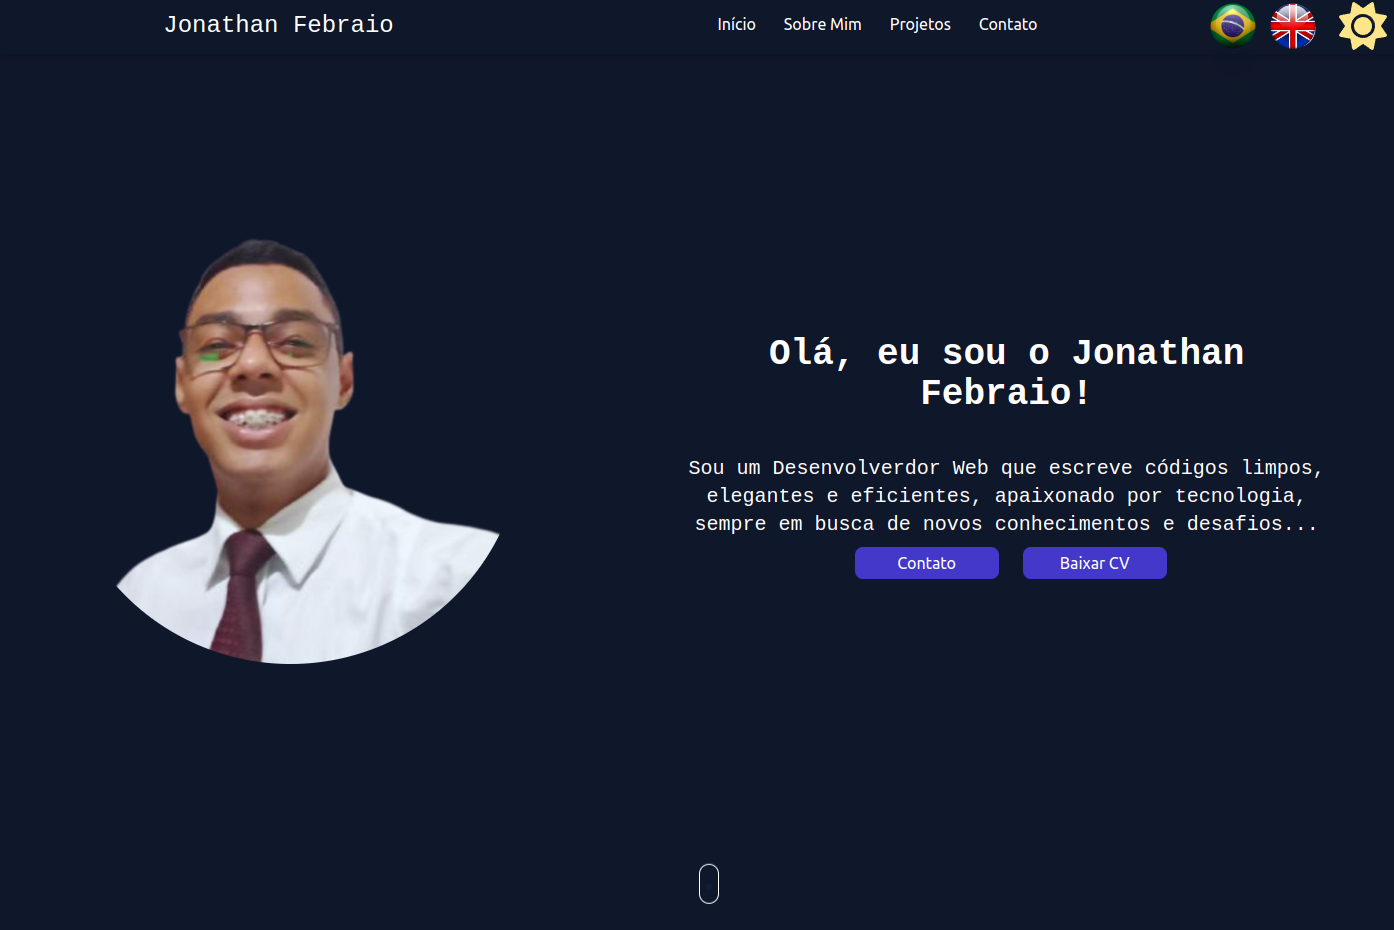
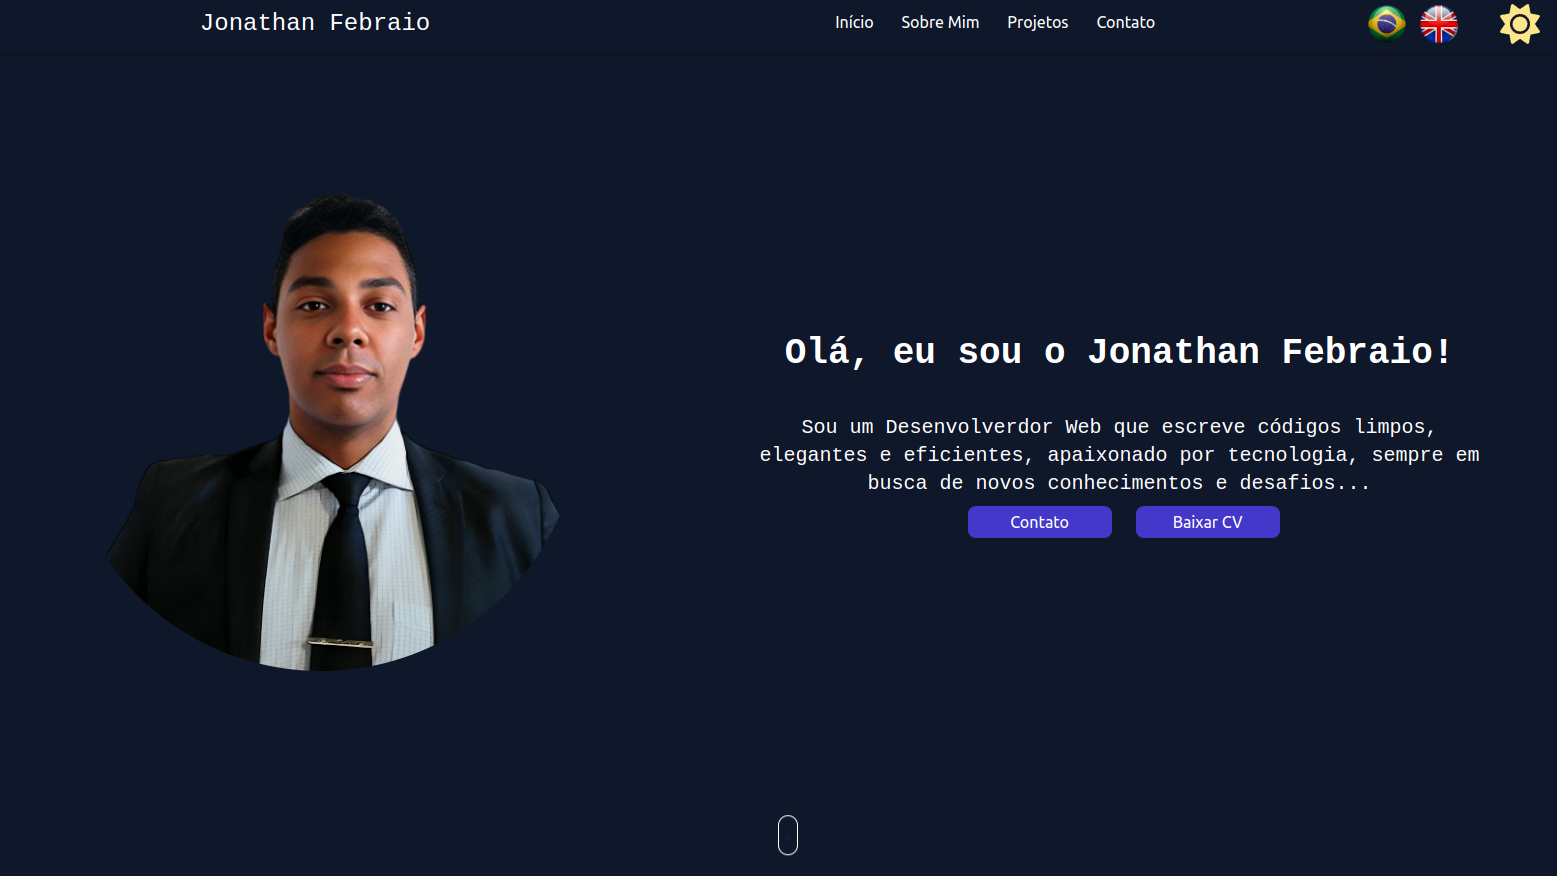
feat: adiciona nova foto a pagina inicial, finaliza pagina de detalhes dos projetos

diff --git a/src/pages/ProjectDetails.tsx b/src/pages/ProjectDetails.tsx
@@ -72,7 +72,7 @@ function ProjectDetails() {
               <button
                 type="button"
                 className="w-48 text-xl text-white mt-4 p-1 rounded-lg
-                 bg-indigo-700"
+                 bg-indigo-700 hover:scale-110 transition-all"
               >
                 {t('siteLink')}
               </button>
@@ -124,8 +124,8 @@ function ProjectDetails() {
               <Link to={ projectsDetails[Number(id)].linkSite } target="_blank">
                 <button
                   type="button"
-                  className="w-48 text-xl text-white mt-4 p-1 rounded-lg
-                 bg-indigo-700"
+                  className="w-48 text-xl text-white m-4 p-1 rounded-lg
+                 bg-indigo-700 hover:scale-110 transition-all"
                 >
                   {t('siteLink')}
                 </button>
@@ -133,10 +133,10 @@ function ProjectDetails() {
               <Link to={ projectsDetails[Number(id)].github } target="_blank">
                 <button
                   type="button"
-                  className="w-48 text-xl text-white mt-4 p-1 rounded-lg
-                 bg-indigo-700"
+                  className="w-48 text-xl text-white m-4 p-1 rounded-lg
+                 bg-indigo-700 hover:scale-110 transition-all"
                 >
-                  {t('repoLink')}
+                  {t('detailsRepo')}
                 </button>
               </Link>
             </div>

diff --git a/src/utils/projectsDetails.ts b/src/utils/projectsDetails.ts
@@ -34,13 +34,16 @@ export const projectsDetails = [
     imgs: [portifolio1, portifolio2, portifolio3, portifolio4],
     linkSite: 'https://jonathan-febrail-dev.vercel.app/',
     github: 'https://github.com/JRaamos/portfolio',
-    techs: ['React', 'TypeScript'],
+    techs: ['React', 'TypeScript', 'Tailwind', 'Git',
+      'GitHub', 'Vercel', 'HTML', 'Context API', 'i18next'],
   },
   {
     title: ' Receitas da Hora',
     img: receitasDaHora,
     imgs: [receitasDaHora1, receitasDaHora2, receitasDaHora3, receitasDaHora4],
     linkSite: 'https://receitas-da-hora.vercel.app/',
-    techs: ['React', 'TypeScript'],
+    github: 'https://github.com/JRaamos/receitas-da-hora',
+    techs: ['React', 'JavaScript', 'CSS', 'HTML', 'Git', 'GitHub', 'Vercel',
+      'Redux', 'RTL', 'Gravatar'],
   },
 ];

diff --git a/src/components/About.tsx b/src/components/About.tsx
@@ -9,6 +9,7 @@ function About() {
     'JavaScript',
     'React',
     'TypeScript',
+    'React Testing Library',
     'Node',
     'Docker',
     'Git',
@@ -16,13 +17,14 @@ function About() {
     'HTML',
     'CSS',
     'SQL',
+    'PostgreSQL',
     'Mocha',
     'MySQL',
     'Jest',
-    'PostgreSQL',
     'Tailwind',
-    'React Testing Library',
     'Express',
+    'Sequelize',
+    'CI/CD',
   ];
   return (
     <div className=" w-full flex max-lg:flex-col justify-evenly">

diff --git a/src/pages/Home.tsx b/src/pages/Home.tsx
@@ -7,8 +7,7 @@ import { faArrowUp } from '@fortawesome/free-solid-svg-icons';
 import { saveAs } from 'file-saver';
 import Header from '../components/Header';
 import About from '../components/About';
-import euDev from '../images/eu-sorrindo.png';
-// import euDev from '../images/eu.png';
+import euDev from '../images/eu-modelo-hd-clara.png';
 import Projects from '../components/Projects';
 import Contacts from '../components/Contacts';
 import Footer from '../components/Footer';
